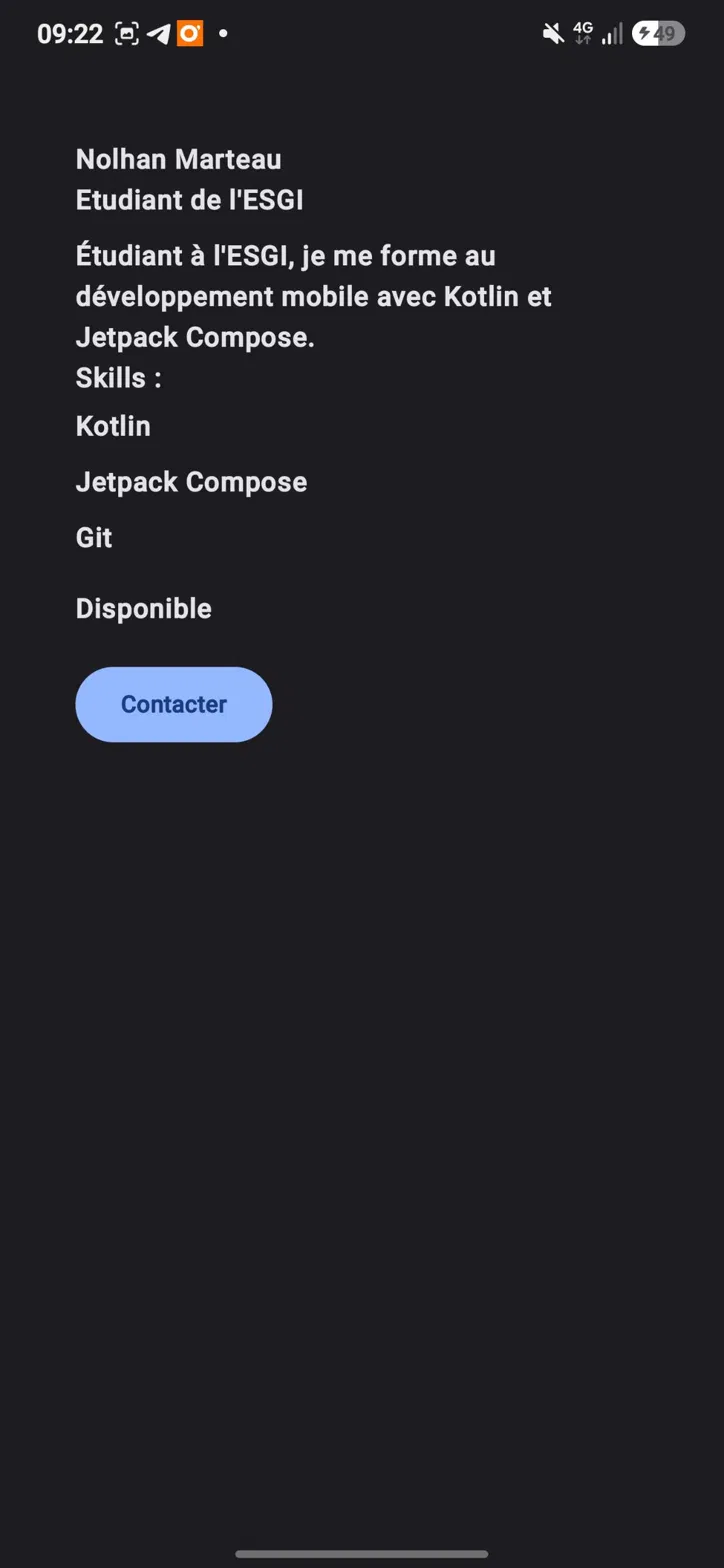
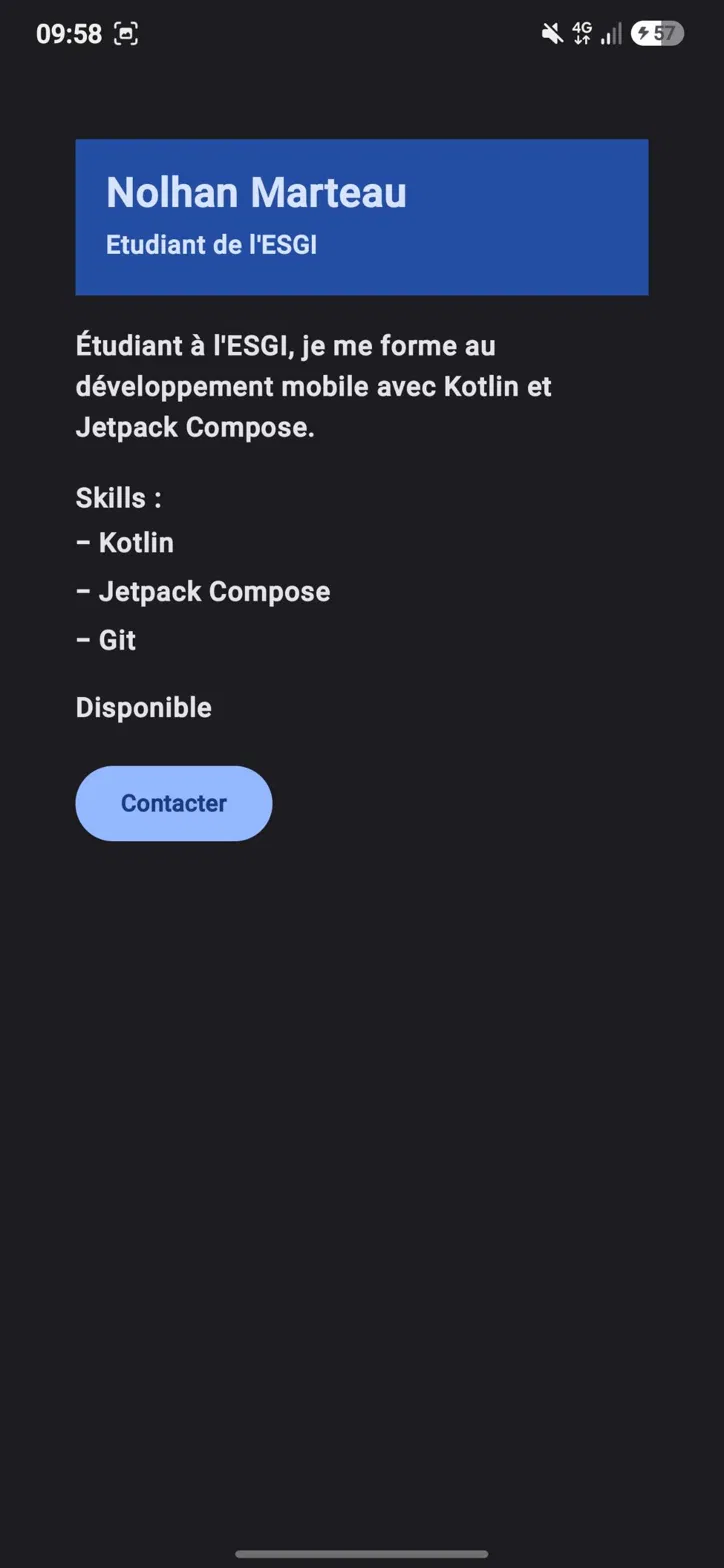
Amélioration du style du profil

Changed region(s): [[0.0912, 0.0625, 0.9116, 0.5625], [0.0608, 0.0, 0.3039, 0.0312], [0.7597, 0.0, 0.942, 0.0312]]

diff --git a/app/src/main/java/com/example/greetingcard/MainActivity.kt b/app/src/main/java/com/example/greetingcard/MainActivity.kt
@@ -10,17 +10,21 @@ import androidx.compose.foundation.layout.Column
 import androidx.compose.foundation.layout.fillMaxSize
 import androidx.compose.foundation.layout.fillMaxWidth
 import androidx.compose.foundation.layout.padding
+import androidx.compose.material3.MaterialTheme
 import androidx.compose.material3.Scaffold
 import androidx.compose.material3.Surface
 import androidx.compose.material3.Text
 import androidx.compose.runtime.Composable
 import androidx.compose.ui.Modifier
+import androidx.compose.ui.graphics.Color
 import androidx.compose.ui.semantics.Role
 import androidx.compose.ui.semantics.contentDescription
 import androidx.compose.ui.semantics.role
 import androidx.compose.ui.semantics.semantics
+import androidx.compose.ui.text.font.FontWeight
 import androidx.compose.ui.tooling.preview.Preview
 import androidx.compose.ui.unit.dp
+import androidx.compose.ui.unit.sp
 import com.example.greetingcard.ui.theme.GreetingCardTheme
 
 class MainActivity : ComponentActivity() {
@@ -69,7 +73,7 @@ fun ProfileCard(
 ) {
     Surface (modifier = modifier) {
         Column(modifier = Modifier.padding(16.dp)){
-            ProfileHeader(name = name, role = role)
+            ProfileHeader(name = name, role = role, Modifier.padding(bottom = 16.dp))
             Text(text = description)
             Text(
                 text = "Skills : ",
@@ -96,14 +100,26 @@ fun ProfileCard(
 
 @Composable
 fun ProfileHeader(
-    name : String,
-    role : String,
+    name: String,
+    role: String,
     modifier: Modifier = Modifier
-){
-    Surface (modifier = modifier) {
-        Column(modifier = Modifier.padding(bottom = 8.dp)){
-            Text(text = name)
-            Text(text = role)
+) {
+    Surface(
+        modifier = modifier.fillMaxWidth(),
+        color = MaterialTheme.colorScheme.primaryContainer,
+        contentColor = MaterialTheme.colorScheme.onPrimaryContainer,
+    ) {
+        Column(modifier = Modifier.padding(16.dp)) {
+            Text(
+                text = name,
+                fontSize = 24.sp,
+                fontWeight = FontWeight.Bold
+            )
+            Text(
+                text = role,
+                fontSize = 15.sp,
+                modifier = Modifier.padding(top = 4.dp)
+            )
         }
     }
 }
@@ -114,7 +130,7 @@ fun SkillItem(
     modifier: Modifier = Modifier
 ) {
     Text(
-        text = skill,
+        text = "- $skill",
         modifier = modifier
     )
 }
